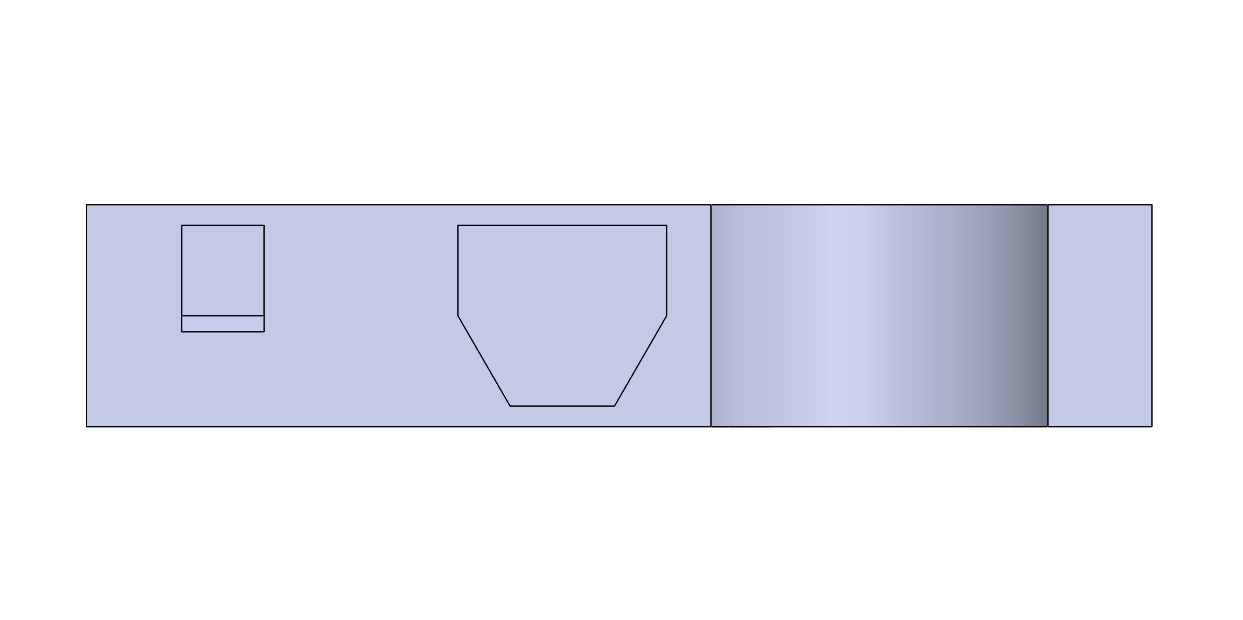
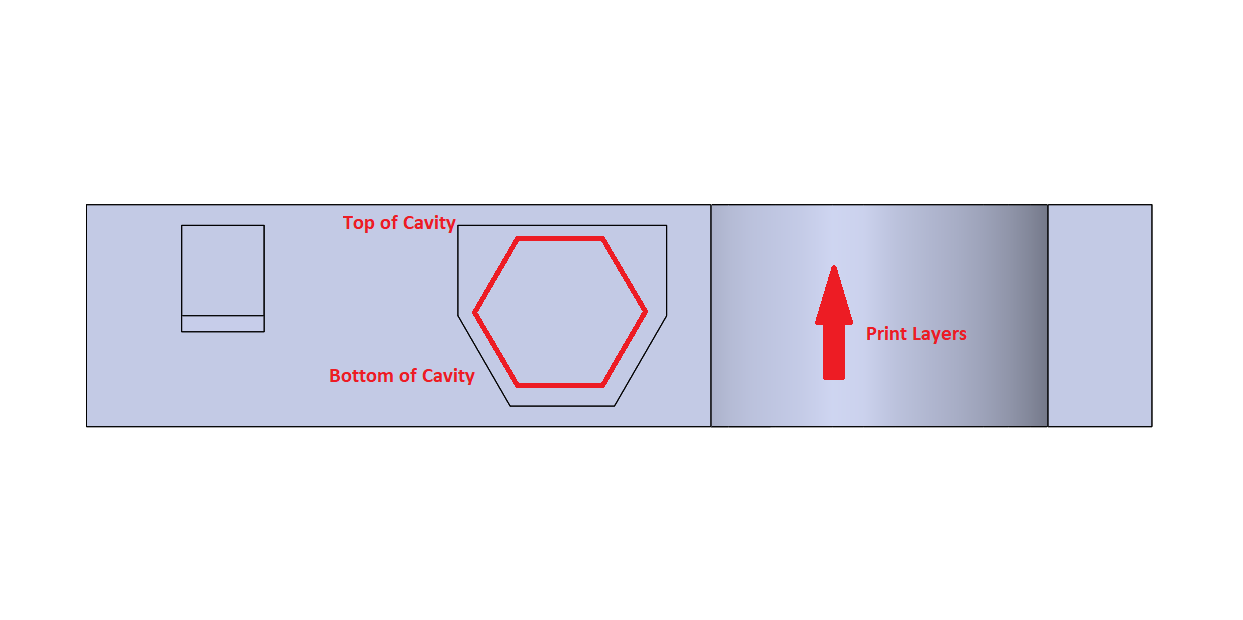
Fixed Insert Tut 19/08

diff --git a/docs/GettingStarted/Tutorials/3DPrintInserts.md b/docs/GettingStarted/Tutorials/3DPrintInserts.md
@@ -6,9 +6,8 @@ nav_order: 1
 ---
 
 # Adding Inserts to 3D Prints:
-{: .no-toc }
-Adding items into the 3D prints can be extremely useful and often simplify designs.
-It has become quite a common task to embed bearings or nuts into 3D prints. Reason being, it allows complex parts to be created through 3D printing but at the same time provided superior mechanical performance compared to 3D printed equivalents.
+{: .no_toc }
+3D printing is a great technique for creating complex parts in a short time, however they generally lack mechanical properties like strength or durability. Inserts give prints improved mechanical performance by embedding components like threaded nuts or bearings.
 
 ## Table of Content:
 {: .no_toc .text-delta }
@@ -16,40 +15,55 @@ It has become quite a common task to embed bearings or nuts into 3D prints. Reas
 1. TOC
 {:toc}
 
-## Design of the 3D Print:
-Coming Soon... Basically, you have to create a cavity you can slip the nut or bearing into. The cavity must be large enough to house the component in its entirety, otherwise it make contact with the head of printer. Sometimes the cavity can be the shape of the component but this is usually influenced by the print orientation.
+# Designing 3D Prints with Inserts:
+Designing prints with inserts is a simple task if some basic rules are followed. This section outlines some rules to keep in mind.
 
-![DCavity](../../Images/Tutorials/NutInsert/NutCavity.PNG)
+## Sizing the Cavity:
+When designing a 3D print with an insert there must be a cavity to house the insert. It is recommended to over size the cavity by 0.2mm to account for the printer inaccuracy and for ease of insertion.
 
-# Embedding a Nut in a 3D Print:
+## Cavity Shape:
+The shape of the cavity will depend on the print orientation. The cavity will either be the same shape as the component or slightly altered. We need to consider the orientation because the cavity will be printed from bottom to top. Below is an example of a cavity with an altered cavity.
+
+  <img src="../../Images/Tutorials/NutInsert/NutCavity.PNG" width=50% >
+
+Generally a cavity will have a top and bottom, especially if it is an *altered* cavity. When altering a cavity it is vital to ensure the top opening is the same width as the widest part of the component, otherwise it will be impossible to insert the component.
+
+## Rules to Keep in Mind:
+- Know the print orientation **before** creating a cavity.
+- The cavity prints from **bottom to top**.
+- Ensure the top opening is as **wide as the widest part** of the component.
+
+
+# How to Embed a Nut in a 3D Print:
 The following steps are for a PrusaMini, however there are concepts that can be transferred to other printers.
 
 ## Step 1, Correct Orientation of the Print:
-Ensure the part is oriented on the print plate such that a pause can be added to insert a nut into the cavity. If the cavity is printed in reverse, you **will not** be able to insert the nut.
+The cavity for the insert generally has a bottom and a top. The part must be orientated such that the bottom of the cavity is printed first. If the cavity is printed in reverse, you **will not** be able to insert the nut.
 
-![h](../../Images/Tutorials/NutInsert/SRMNI-Orientation.PNG)
+![Orientation](../../Images/Tutorials/NutInsert/SRMNI-Orientation.PNG) 
 
 ## Step 2, Slicing and Adding a Pause: (Prusa Specific)
 Prusa already have great documentation on this and it can be found [here](https://help.prusa3d.com/article/insert-pause-or-custom-g-code-at-layer_120490).
 
-However, simply put if you slide the orange layer slider on the right of the screen a "+" appears. Clicking this gives you the option to add a `Pause`, `Colour Change` or `Custom G-code` at the **current** layer. We desire a simple `Pause` only.
+However, simply put if you slide the orange layer slider on the right of the screen a "+" appears. Clicking this gives you the option to add a `Pause`, `Colour Change` or `Custom G-code` at the **current** layer. Select a `Pause`. Note, you can only add a pause if the print has been sliced.
 
 ![Slider](../../Images/Tutorials/NutInsert/Pause.PNG)
+
 
 ## Step3, Choosing the Correct Layer for a Pause
 We only want to insert the nut into the cavity just before the cavity closes. If we insert the nut before this point it will leave a portion of the nut protruding from the cavity and can collide with the extruder. The idea then, is to determine at which layer the cavity closes.
 
 There are two layers you must find to add a successful pause. The Layer that the **cavity closes** and the layer **before** the cavity closes.
 
-**Layer When Cavity Closes**
-
-![After](../../Images/Tutorials/NutInsert/SRMNI-LayerAfterInsert.PNG)
-
 **Layer Before Cavity Closes**
 
 ![Before](../../Images/Tutorials/NutInsert/SRMNI-LayerBEFOREInsert.PNG)
 
-We want to add the pause on the layer **BEFORE** the cavity closes. On the layer before the cavity closes, add the pause as described in **Step 2**.
+**Layer When Cavity Closes**
+
+![After](../../Images/Tutorials/NutInsert/SRMNI-LayerAfterInsert.PNG)
+
+We want to add the pause on the layer **BEFORE** the cavity closes. Add the pause as described in **Step 2**.
 You can then slice the print and export the G-code for printing.
 
 Happy Printing!
